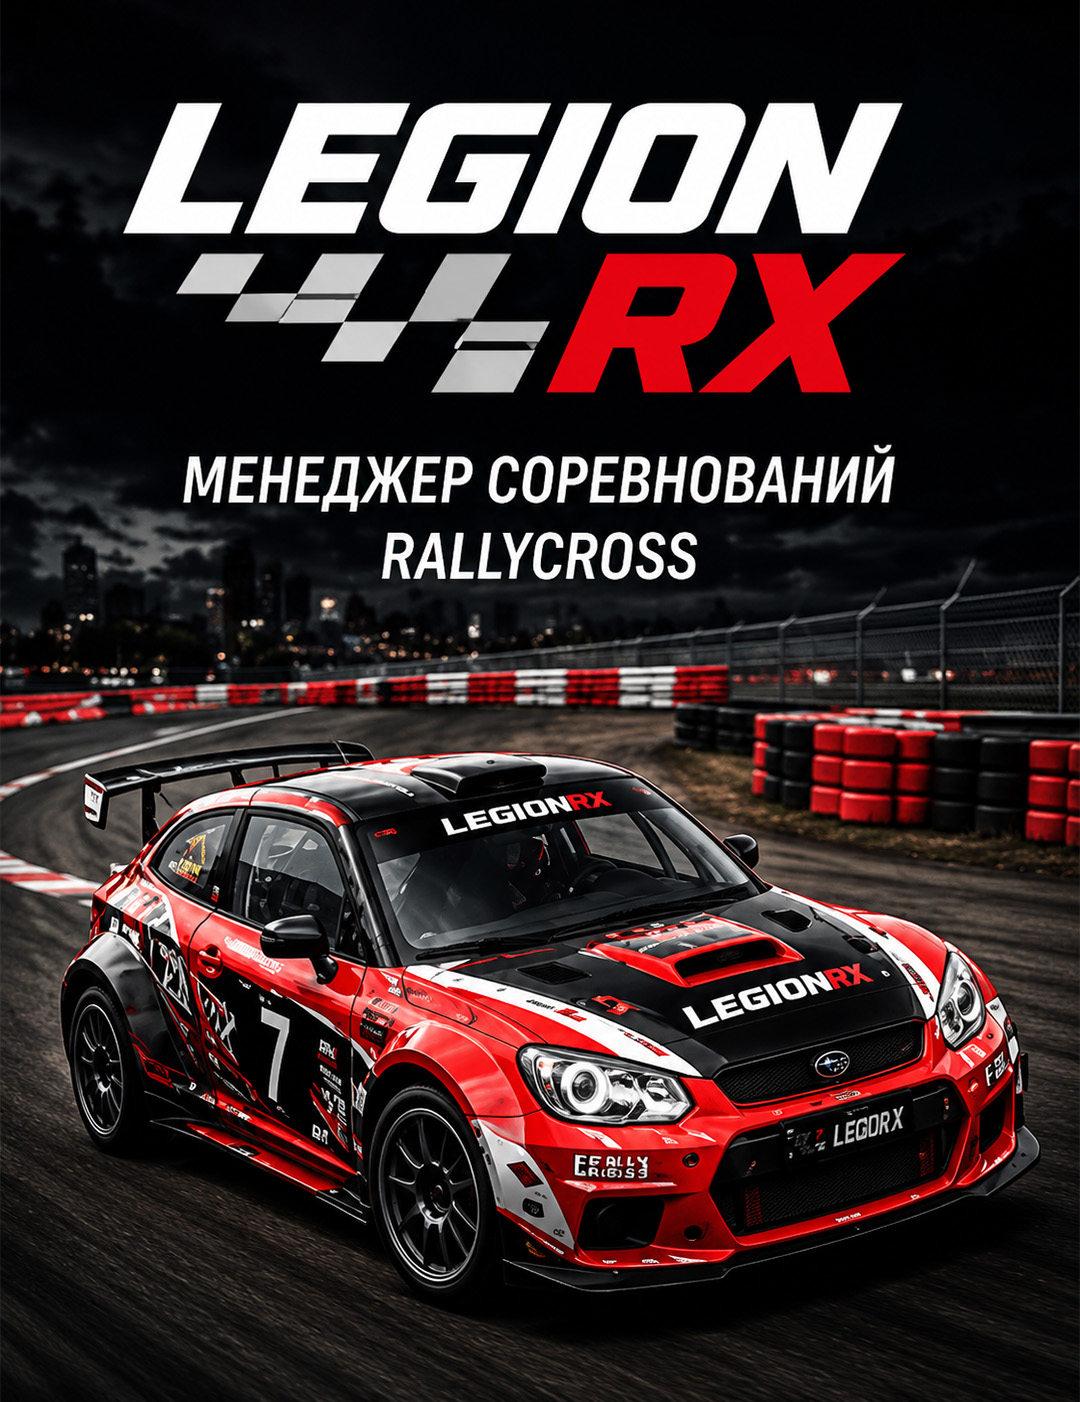
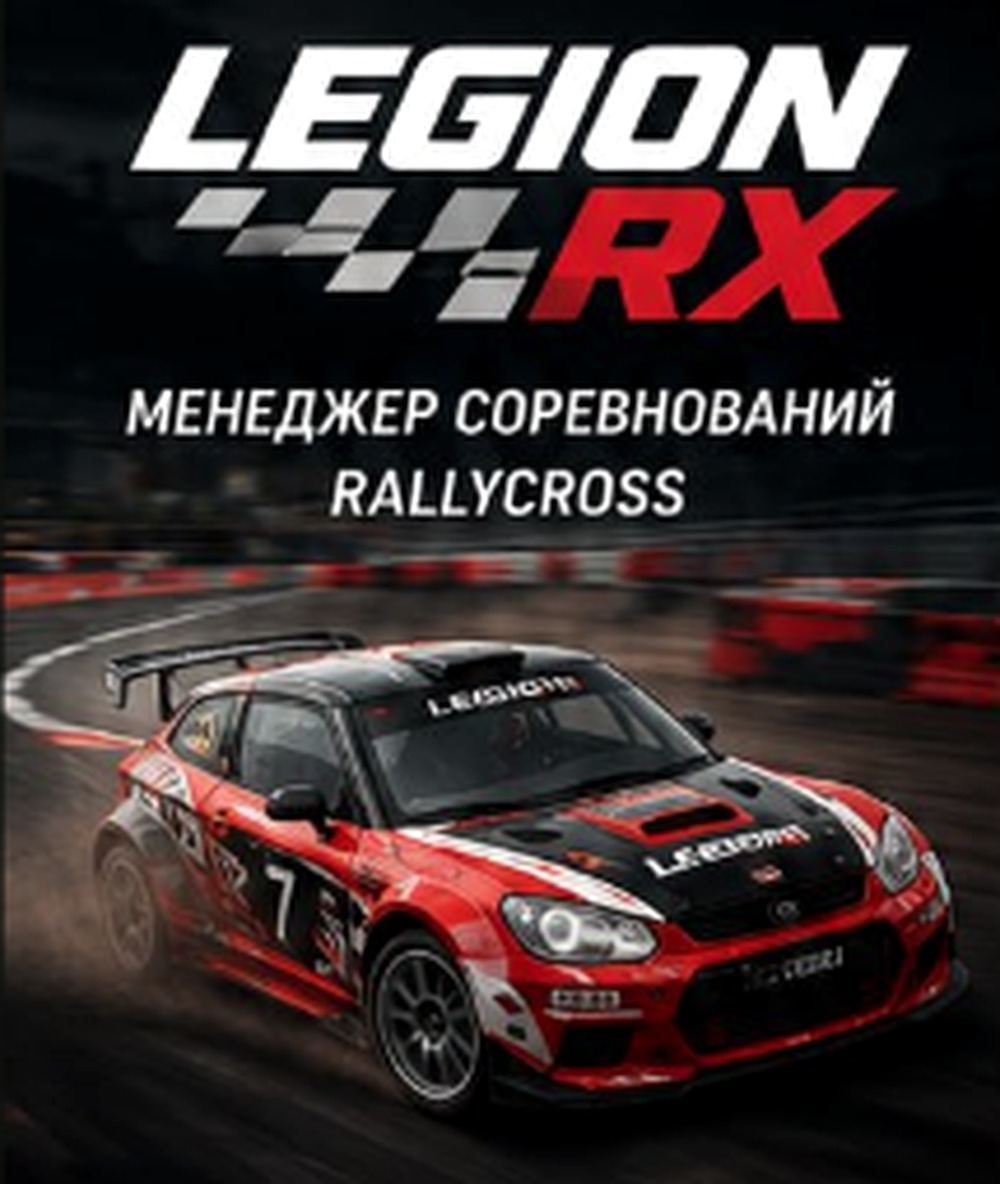
Add files via upload

diff --git a/app.js b/app.js
@@ -1,4 +1,4 @@
-/* Legion RX Championship Edition v3.3.5 Beta */
+/* Legion RX Championship Edition v3.3.11 Beta */
 
 const $ = id => document.getElementById(id);
 const eventNameInput = $("eventName");
@@ -18,6 +18,18 @@ const racePilotList = $("racePilotList");
 const pilotCounter = $("pilotCounter");
 const nextButton = $("nextStep");
 const PILOT_DB_KEY = "legionRxPilotDatabase";
+const LAST_LOCATION_KEY = "legionRxLastEventLocation";
+const INSTALL_HINT_KEY = "legionRxInstallHintShown_v3.3.11";
+
+function saveLastEventLocation(value = eventLocationInput?.value || "") {
+    const locationValue = String(value).trim();
+    if (locationValue) localStorage.setItem(LAST_LOCATION_KEY, locationValue);
+}
+
+function getLastEventLocation() {
+    return localStorage.getItem(LAST_LOCATION_KEY) || "";
+}
+
 let pendingPilotPhoto = "";
 let editingPilotId = "";
 let pendingEditPilotPhoto = "";
@@ -32,12 +44,15 @@ function toggleChampionshipFields(){
     $("championshipStageFields")?.classList.toggle("hidden",!on);
 }
 eventStatusInput.addEventListener("change", toggleChampionshipFields);
+eventLocationInput?.addEventListener("change", () => saveLastEventLocation());
+eventLocationInput?.addEventListener("blur", () => saveLastEventLocation());
 
 function readRaceForm() {
     RaceData.eventName = eventNameInput.value.trim() || "Соревнование Legion RX";
     RaceData.clubName = clubNameInput.value.trim() || "Legion RC Penza";
     RaceData.eventDate = eventDateInput.value;
     RaceData.eventLocation = eventLocationInput.value.trim();
+    saveLastEventLocation(RaceData.eventLocation);
     RaceData.eventStatus = eventStatusInput.value;
     RaceData.championshipId = eventStatusInput.value === "championship" ? raceChampionshipInput.value : "";
     RaceData.championshipStageNumber = eventStatusInput.value === "championship" ? Number(raceStageNumberInput.value || 1) : null;
@@ -763,12 +778,65 @@ $("printProtocol").addEventListener("click", printProtocol);
 $("saveProtocolImage").addEventListener("click", exportProtocolPng);
 $("completeRace")?.addEventListener("click", completeCurrentRace);
 $("openHome").addEventListener("click", () => navigateTo("home"));
-$("showInstallInfo").addEventListener("click", () => {
-    const box = $("installHelp");
-    box.innerHTML = "На iPhone откройте сайт в Safari → Поделиться → На экран «Домой». После первого запуска приложение работает офлайн.";
-    box.classList.remove("hidden");
-    window.scrollTo({ top: 0, behavior: "smooth" });
+let deferredInstallPrompt = null;
+window.addEventListener("beforeinstallprompt", event => {
+    event.preventDefault();
+    deferredInstallPrompt = event;
 });
+
+function detectInstallPlatform() {
+    const ua = navigator.userAgent || "";
+    const isStandalone = window.matchMedia?.("(display-mode: standalone)")?.matches || window.navigator.standalone === true;
+    const isIOS = /iPad|iPhone|iPod/.test(ua) || (navigator.platform === "MacIntel" && navigator.maxTouchPoints > 1);
+    const isAndroid = /Android/i.test(ua);
+    const isWindows = /Windows/i.test(ua);
+    const isMac = /Macintosh|Mac OS X/i.test(ua);
+    return { isStandalone, isIOS, isAndroid, isWindows, isMac };
+}
+
+function getInstallHelpHtml() {
+    const lang = window.LegionI18n?.getLanguage?.() || "ru";
+    const p = detectInstallPlatform();
+    if (p.isStandalone) {
+        return lang === "en"
+            ? `<div class="installHelpInner"><b>Legion RX is already installed</b><span>The app launches from its icon and can work offline after the first complete load.</span></div>`
+            : `<div class="installHelpInner"><b>Legion RX уже установлено</b><span>Приложение запускается с иконки и после первой полной загрузки может работать офлайн.</span></div>`;
+    }
+    if (p.isIOS) {
+        return lang === "en"
+            ? `<div class="installHelpInner"><b>Install on iPhone or iPad</b><ol><li>Open Legion RX in Safari.</li><li>Tap Share.</li><li>Select “Add to Home Screen”.</li><li>Tap “Add”.</li></ol><span>Open the installed app once while online, then test it in Airplane Mode.</span></div>`
+            : `<div class="installHelpInner"><b>Установка на iPhone или iPad</b><ol><li>Откройте Legion RX в Safari.</li><li>Нажмите «Поделиться».</li><li>Выберите «На экран Домой».</li><li>Нажмите «Добавить».</li></ol><span>Один раз откройте установленное приложение с интернетом, затем проверьте его в авиарежиме.</span></div>`;
+    }
+    if (p.isAndroid) {
+        const button = deferredInstallPrompt
+            ? `<button type="button" id="installPwaNow" class="primaryAction installNowButton">${lang === "en" ? "Install Legion RX" : "Установить Legion RX"}</button>`
+            : "";
+        return lang === "en"
+            ? `<div class="installHelpInner"><b>Install on Android</b><ol><li>Open Legion RX in Google Chrome.</li><li>Tap the browser menu ⋮.</li><li>Select “Install app” or “Add to Home screen”.</li><li>Confirm installation.</li></ol>${button}<span>If the page opened inside Telegram or VK, first choose “Open in browser”.</span></div>`
+            : `<div class="installHelpInner"><b>Установка на Android</b><ol><li>Откройте Legion RX в Google Chrome.</li><li>Нажмите меню браузера ⋮.</li><li>Выберите «Установить приложение» или «Добавить на главный экран».</li><li>Подтвердите установку.</li></ol>${button}<span>Если ссылка открылась внутри Telegram или VK, сначала выберите «Открыть в браузере».</span></div>`;
+    }
+    const desktopName = p.isWindows ? "Windows" : (p.isMac ? "macOS" : "computer");
+    return lang === "en"
+        ? `<div class="installHelpInner"><b>Install on ${desktopName}</b><ol><li>Open Legion RX in Chrome or Edge.</li><li>Click the install icon in the address bar or open the browser menu.</li><li>Select “Install Legion RX”.</li></ol><span>The installed app opens in a separate window and can work offline after the first complete load.</span></div>`
+        : `<div class="installHelpInner"><b>Установка на ${desktopName}</b><ol><li>Откройте Legion RX в Chrome или Edge.</li><li>Нажмите значок установки в адресной строке или откройте меню браузера.</li><li>Выберите «Установить Legion RX».</li></ol><span>Приложение будет открываться в отдельном окне и после первой полной загрузки сможет работать офлайн.</span></div>`;
+}
+
+function showInstallInstructions({ auto = false } = {}) {
+    const box = $("installHelp");
+    if (!box) return;
+    box.innerHTML = getInstallHelpHtml();
+    box.classList.remove("hidden");
+    box.querySelector("#installPwaNow")?.addEventListener("click", async () => {
+        if (!deferredInstallPrompt) return;
+        deferredInstallPrompt.prompt();
+        await deferredInstallPrompt.userChoice;
+        deferredInstallPrompt = null;
+        box.innerHTML = getInstallHelpHtml();
+    });
+    if (!auto) window.scrollTo({ top: 0, behavior: "smooth" });
+}
+
+$("showInstallInfo").addEventListener("click", () => showInstallInstructions());
 bindRouteButtons();
 $("languageSelect").value = window.LegionI18n?.getLanguage?.() || "ru";
 $("languageSelect").addEventListener("change", e => window.LegionI18n?.setLanguage?.(e.target.value));
@@ -786,7 +854,9 @@ if (loadFromBrowser()) {
     qualifyingSelect.value = String(RaceData.qualifyingCount || 4);
 } else {
     eventDateInput.value = new Date().toISOString().slice(0,10);
+    eventLocationInput.value = getLastEventLocation();
 }
+if (eventLocationInput.value.trim()) saveLastEventLocation(eventLocationInput.value);
 
 upsertLegacyRacePilotsIntoDatabase();
 drawPilots();
@@ -795,6 +865,13 @@ updatePhotoPreview();
 restoreRaceView();
 updateHomeSummary();
 navigateTo("home");
+setTimeout(() => {
+    const platform = detectInstallPlatform();
+    if (!platform.isStandalone && !localStorage.getItem(INSTALL_HINT_KEY)) {
+        showInstallInstructions({ auto: true });
+        localStorage.setItem(INSTALL_HINT_KEY, "1");
+    }
+}, 700);
 
 
 const HELP_SECTIONS_RU={
@@ -813,7 +890,8 @@ const HELP_SECTIONS_RU={
 <h3>6. Равенство очков в Финале A</h3><p>При равной сумме применяются последовательно:</p><div class="rxGridOrder"><div><b>1</b><span>Большее количество побед в A1–A3.</span></div><div><b>2</b><span>Большее количество вторых мест.</span></div><div><b>3</b><span>Лучший результат в A3.</span></div><div><b>4</b><span>Более высокое место в квалификации.</span></div></div>
 <div class="rxProgression" role="img" aria-label="Квалификация: первые четыре напрямую в Финал A, остальные через LCQ; затем три заезда A1 A2 A3"><div class="rxProgressFinal"><span>ГЛАВНЫЙ ФИНАЛ</span><b>A1 + A2 + A3</b><em>зачёт двух лучших результатов</em></div><div class="rxProgressLinks"><div class="rxProgressLink"><span class="rxAdvanceCount">↑ TOP 4</span><i></i></div><div class="rxProgressLink"><span class="rxAdvanceCount">↑ 2 МЕСТА</span><i></i></div></div><div class="rxProgressSemis"><div class="rxProgressBlock"><span>КВАЛИФИКАЦИЯ</span><b>TOP 4</b><em>прямой проход</em></div><div class="rxProgressBlock"><span>ОТБОР</span><b>LCQ</b><em>честный проход по финишу</em></div></div></div>
 <h3>7. Очки этапа</h3><p>По итоговому протоколу первые 10 пилотов получают очки: <b>25–18–15–12–10–8–6–4–2–1</b>.</p><div class="pointsGuide"><span><b>1</b>25</span><span><b>2</b>18</span><span><b>3</b>15</span><span><b>4</b>12</span><span><b>5</b>10</span><span><b>6</b>8</span><span><b>7</b>6</span><span><b>8</b>4</span><span><b>9</b>2</span><span><b>10</b>1</span></div></div>`,
- terms:`<div class="guideContent"><h2>Обозначения</h2><dl class="termsList"><dt>LCQ</dt><dd>Last Chance Qualifier — заезд последнего шанса для прохода в Финал A.</dd><dt>DNS</dt><dd>Did Not Start — пилот не стартовал.</dd><dt>DNF</dt><dd>Did Not Finish — пилот стартовал, но не финишировал.</dd><dt>DSQ</dt><dd>Disqualified — дисквалификация.</dd><dt>Best 3</dt><dd>Три лучших результата пилота в квалификационных сериях.</dd></dl></div>`
+ terms:`<div class="guideContent"><h2>Обозначения</h2><dl class="termsList"><dt>LCQ</dt><dd>Last Chance Qualifier — заезд последнего шанса для прохода в Финал A.</dd><dt>DNS</dt><dd>Did Not Start — пилот не стартовал.</dd><dt>DNF</dt><dd>Did Not Finish — пилот стартовал, но не финишировал.</dd><dt>DSQ</dt><dd>Disqualified — дисквалификация.</dd><dt>Best 3</dt><dd>Три лучших результата пилота в квалификационных сериях.</dd></dl></div>`,
+ install:`<div class="guideContent"><h2>Установка приложения</h2><div id="guideInstallDetected" class="guideInstallDetected"></div><h3>iPhone и iPad</h3><ol><li>Откройте Legion RX в Safari.</li><li>Нажмите «Поделиться».</li><li>Выберите «На экран Домой».</li><li>Нажмите «Добавить».</li></ol><h3>Android</h3><ol><li>Откройте Legion RX в Google Chrome.</li><li>Нажмите меню ⋮.</li><li>Выберите «Установить приложение» или «Добавить на главный экран».</li><li>Подтвердите установку.</li></ol><h3>Компьютер</h3><p>В Chrome или Edge нажмите значок установки в адресной строке и выберите «Установить Legion RX».</p><p><b>Проверка офлайн:</b> после первой полной загрузки закройте приложение, включите авиарежим и снова откройте его с иконки.</p></div>`
 };
 const HELP_SECTIONS_EN={
  manual:`<div class="guideContent"><h2>User guide</h2><h3>1. Creating a race</h3><p>Select the race type and enter its name, date and location.</p><h3>2. Drivers</h3><p>Add drivers. Registration order does not determine sporting results: starting positions are set by qualifying.</p><h3>3. Qualifying</h3><p>Create the rounds, enter the results and save every heat. The driver’s three best results — Best 3 — count toward the qualifying standings.</p><h3>4. Finals stage</h3><p>Tap “Generate finals”. The app automatically selects the format based on the number of drivers, creates the LCQ structure and the three Final A heats.</p><h3>5. Entering results</h3><p>Save the heats in order. After A3, the app automatically calculates the best two results out of three and generates the final report.</p><h3>6. Export</h3><p>“PDF / Print” creates a printable document, while “Download PNG” creates an image of the results.</p></div>`,
@@ -829,9 +907,25 @@ const HELP_SECTIONS_EN={
 <h3>6. Ties in Final A</h3><p>If totals are equal, the following criteria are applied in order:</p><div class="rxGridOrder"><div><b>1</b><span>More wins in A1–A3.</span></div><div><b>2</b><span>More second-place finishes.</span></div><div><b>3</b><span>Better result in A3.</span></div><div><b>4</b><span>Higher qualifying position.</span></div></div>
 <div class="rxProgression" role="img" aria-label="Qualifying: the top four advance directly to Final A, the others go through the LCQ, followed by A1, A2 and A3"><div class="rxProgressFinal"><span>MAIN FINAL</span><b>A1 + A2 + A3</b><em>best two results count</em></div><div class="rxProgressLinks"><div class="rxProgressLink"><span class="rxAdvanceCount">↑ TOP 4</span><i></i></div><div class="rxProgressLink"><span class="rxAdvanceCount">↑ 2 POSITIONS</span><i></i></div></div><div class="rxProgressSemis"><div class="rxProgressBlock"><span>QUALIFYING</span><b>TOP 4</b><em>direct advancement</em></div><div class="rxProgressBlock"><span>QUALIFIER</span><b>LCQ</b><em>advancement by finishing order</em></div></div></div>
 <h3>7. Event points</h3><p>The top 10 drivers in the final report score: <b>25–18–15–12–10–8–6–4–2–1</b>.</p><div class="pointsGuide"><span><b>1</b>25</span><span><b>2</b>18</span><span><b>3</b>15</span><span><b>4</b>12</span><span><b>5</b>10</span><span><b>6</b>8</span><span><b>7</b>6</span><span><b>8</b>4</span><span><b>9</b>2</span><span><b>10</b>1</span></div></div>`,
- terms:`<div class="guideContent"><h2>Terms</h2><dl class="termsList"><dt>LCQ</dt><dd>Last Chance Qualifier — a last-chance heat for advancement to Final A.</dd><dt>DNS</dt><dd>Did Not Start — the driver did not start.</dd><dt>DNF</dt><dd>Did Not Finish — the driver started but did not finish.</dd><dt>DSQ</dt><dd>Disqualified — the driver was disqualified.</dd><dt>Best 3</dt><dd>The driver’s three best results from the qualifying rounds.</dd></dl></div>`
+ terms:`<div class="guideContent"><h2>Terms</h2><dl class="termsList"><dt>LCQ</dt><dd>Last Chance Qualifier — a last-chance heat for advancement to Final A.</dd><dt>DNS</dt><dd>Did Not Start — the driver did not start.</dd><dt>DNF</dt><dd>Did Not Finish — the driver started but did not finish.</dd><dt>DSQ</dt><dd>Disqualified — the driver was disqualified.</dd><dt>Best 3</dt><dd>The driver’s three best results from the qualifying rounds.</dd></dl></div>`,
+ install:`<div class="guideContent"><h2>Installing the application</h2><div id="guideInstallDetected" class="guideInstallDetected"></div><h3>iPhone and iPad</h3><ol><li>Open Legion RX in Safari.</li><li>Tap Share.</li><li>Select “Add to Home Screen”.</li><li>Tap “Add”.</li></ol><h3>Android</h3><ol><li>Open Legion RX in Google Chrome.</li><li>Tap the ⋮ menu.</li><li>Select “Install app” or “Add to Home screen”.</li><li>Confirm installation.</li></ol><h3>Computer</h3><p>In Chrome or Edge, click the install icon in the address bar and choose “Install Legion RX”.</p><p><b>Offline test:</b> after the first complete load, close the app, enable Airplane Mode and open it again from its icon.</p></div>`
 };
 function currentHelpSections(){return window.LegionI18n?.getLanguage?.()==='en'?HELP_SECTIONS_EN:HELP_SECTIONS_RU}
-function renderHelp(key){const sections=currentHelpSections();document.querySelectorAll('.helpTab').forEach(b=>b.classList.toggle('active',b.dataset.help===key));$('helpContent').innerHTML=sections[key]||sections.manual}
+function renderHelp(key){
+    const sections=currentHelpSections();
+    document.querySelectorAll('.helpTab').forEach(b=>b.classList.toggle('active',b.dataset.help===key));
+    $('helpContent').innerHTML=sections[key]||sections.manual;
+    if(key==='install'){
+        const target=$('guideInstallDetected');
+        if(target) target.innerHTML=getInstallHelpHtml();
+        target?.querySelector('#installPwaNow')?.addEventListener('click',async()=>{
+            if(!deferredInstallPrompt)return;
+            deferredInstallPrompt.prompt();
+            await deferredInstallPrompt.userChoice;
+            deferredInstallPrompt=null;
+            target.innerHTML=getInstallHelpHtml();
+        });
+    }
+}
 document.querySelectorAll('.helpTab').forEach(b=>b.addEventListener('click',()=>renderHelp(b.dataset.help)));
 initChampionships(); toggleChampionshipFields();

diff --git a/index.html b/index.html
@@ -10,7 +10,7 @@
     <link rel="manifest" href="manifest.webmanifest">
     <link rel="apple-touch-icon" href="icons/apple-touch-icon.png">
     <title>Legion RX Championship Edition v3.3.10 Beta</title>
-    <link rel="stylesheet" href="style.css?v=3.3.10">
+    <link rel="stylesheet" href="style.css?v=3.3.11">
 </head>
 <body>
 <svg class="rxIconSprite" aria-hidden="true" focusable="false" width="0" height="0" style="position:absolute;overflow:hidden">
@@ -37,7 +37,7 @@
             <div class="brandMark"><span>LEGION</span><b>RX</b></div>
             <small>RallyCross Manager</small>
         </div>
-        <div class="versionBadge">v3.3.10 BETA</div>
+        <div class="versionBadge">v3.3.11 BETA</div>
     </header>
 
     <div id="installHelp" class="installHelp hidden"></div>
@@ -286,7 +286,7 @@
 
         <section id="helpView" class="appScreen card hidden">
           <div class="screenHero compactHero"><div><span>СПРАВКА</span><h1>Руководства и правила</h1></div><button class="ghostAction" data-route="home">← Меню</button></div>
-          <div class="helpTabs"><button class="helpTab active" data-help="manual">Руководство</button><button class="helpTab" data-help="raceguide">Правила гонки</button><button class="helpTab" data-help="terms">Обозначения</button></div>
+          <div class="helpTabs"><button class="helpTab active" data-help="manual">Руководство</button><button class="helpTab" data-help="raceguide">Правила гонки</button><button class="helpTab" data-help="terms">Обозначения</button><button class="helpTab" data-help="install">Установка</button></div>
           <div id="helpContent"></div>
         </section>
 
@@ -349,14 +349,14 @@
 
 <footer>Legion RC Penza · RallyCross Manager</footer>
 
-<script src="i18n.js?v=3.3.9"></script>
-<script src="data.js?v=3.3.9"></script>
-<script src="score.js?v=3.3.9"></script>
-<script src="qualifying.js?v=3.3.9"></script>
-<script src="finals.js?v=3.3.9"></script>
-<script src="championship.js?v=3.3.9"></script>
-<script src="theme.js?v=3.3.9"></script>
-<script src="app.js?v=3.3.9"></script>
-<script src="pwa.js?v=3.3.9"></script>
+<script src="i18n.js?v=3.3.11"></script>
+<script src="data.js?v=3.3.11"></script>
+<script src="score.js?v=3.3.11"></script>
+<script src="qualifying.js?v=3.3.11"></script>
+<script src="finals.js?v=3.3.11"></script>
+<script src="championship.js?v=3.3.11"></script>
+<script src="theme.js?v=3.3.11"></script>
+<script src="app.js?v=3.3.11"></script>
+<script src="pwa.js?v=3.3.11"></script>
 </body>
 </html>

diff --git a/sw.js b/sw.js
@@ -1,17 +1,17 @@
-const CACHE_NAME = 'legion-rx-v3.3.10-beta';
+const CACHE_NAME = 'legion-rx-v3.3.11-beta';
 const APP_FILES = [
   './',
   './index.html',
-  './style.css?v=3.3.10',
-  './i18n.js?v=3.3.10',
-  './data.js?v=3.3.10',
-  './score.js?v=3.3.10',
-  './qualifying.js?v=3.3.10',
-  './finals.js?v=3.3.10',
-  './championship.js?v=3.3.10',
-  './theme.js?v=3.3.10',
-  './app.js?v=3.3.10',
-  './pwa.js?v=3.3.10',
+  './style.css?v=3.3.11',
+  './i18n.js?v=3.3.11',
+  './data.js?v=3.3.11',
+  './score.js?v=3.3.11',
+  './qualifying.js?v=3.3.11',
+  './finals.js?v=3.3.11',
+  './championship.js?v=3.3.11',
+  './theme.js?v=3.3.11',
+  './app.js?v=3.3.11',
+  './pwa.js?v=3.3.11',
   './manifest.webmanifest',
   './icons/icon-192.png',
   './icons/icon-512.png',

diff --git a/style.css b/style.css
@@ -1157,3 +1157,7 @@ body.cropEditorOpen{overflow:hidden;touch-action:none}
 [data-theme="rx-light"] button.primaryAction{
   color:#fff!important;
 }
+
+
+/* v3.3.11 — contextual PWA installation help */
+.installHelpInner{display:flex;flex-direction:column;gap:8px}.installHelpInner b{color:#fff;font-size:16px}.installHelpInner span{color:inherit}.installHelpInner ol{margin:2px 0 4px 20px;padding:0}.installHelpInner li{margin:4px 0}.installNowButton{align-self:flex-start;margin-top:4px}.guideInstallDetected{margin:0 0 18px;padding:14px 16px;border:1px solid rgba(239,43,45,.4);border-radius:12px;background:#15191f;color:#d4d7dc}.guideInstallDetected .installHelpInner b{color:#fff}[data-theme="rx-light"] .guideInstallDetected{background:#f4f6f8;color:#303843;border-color:#cfd6df}[data-theme="rx-light"] .guideInstallDetected .installHelpInner b{color:#111820}

diff --git a/i18n.js b/i18n.js
@@ -13,7 +13,7 @@ const en = {
   'Общий рейтинг':'Overall ranking','Турнирная таблица Финала A':'Final A standings','Итоговый протокол':'Final report','Завершить соревнование':'Finish race','🏁 Завершить соревнование':'🏁 Finish race','Скачать PNG':'Download PNG','PDF / Печать':'PDF / Print',
   'База пилотов':'Driver database','ПОСТОЯННЫЕ ПРОФИЛИ':'PERMANENT PROFILES','Постоянные профили':'Permanent profiles','Новый пилот':'New driver','＋ Новый пилот':'＋ New driver','В гонку':'Add to race','Редактировать':'Edit','Удалить':'Delete','Добавить в гонку':'Add to race','Поиск пилота':'Search driver','Профиль пилота':'Driver profile','ПРОФИЛЬ ПИЛОТА':'DRIVER PROFILE','БАЗА ПИЛОТОВ':'DRIVER DATABASE','Фамилия Имя':'Full name','Клуб':'Club','Необязательно':'Optional','Клуб (необязательно)':'Club (optional)','Сохранить изменения':'Save changes','Удаление здесь удаляет профиль из базы, но не меняет архивные результаты.':'Deleting here removes the profile from the database but does not change archived results.',
   'Язык':'Language','Выберите язык интерфейса приложения.':'Choose the application interface language.','Русский':'Russian','Темы':'Themes','Дополнительные темы оформления появятся позже.':'Additional themes will be added later.','Скоро':'Coming soon','СИСТЕМА':'SYSTEM',
-  'Экспорт гонки':'Export race','Сохранить полную резервную копию в JSON.':'Save a full JSON backup.','Скачать':'Download','Отменить текущую гонку':'Cancel current race','Удалить незавершённую гонку. Архив не пострадает.':'Delete the unfinished race. The archive will not be affected.','Отменить':'Cancel','PWA-приложение':'PWA application','Устанавливается на экран iPhone и работает офлайн.':'Can be installed on the iPhone Home Screen and works offline.','Инструкция':'Instructions','Руководства и правила':'Guides and rules','Работа с приложением, формат гонки и обозначения.':'Application guide, race format and terminology.','Открыть':'Open','Меню':'Menu','← Меню':'← Menu',
+  'Экспорт гонки':'Export race','Сохранить полную резервную копию в JSON.':'Save a full JSON backup.','Скачать':'Download','Отменить текущую гонку':'Cancel current race','Удалить незавершённую гонку. Архив не пострадает.':'Delete the unfinished race. The archive will not be affected.','Отменить':'Cancel','PWA-приложение':'PWA application','Устанавливается на экран телефона и работает офлайн.':'Installs on your device and works offline.','Инструкция':'Instructions','Установка':'Installation','Руководства и правила':'Guides and rules','Работа с приложением, формат гонки и обозначения.':'Application guide, race format and terminology.','Открыть':'Open','Меню':'Menu','← Меню':'← Menu',
   'Мои чемпионаты':'My championships','СЕЗОНЫ':'SEASONS','НОВЫЙ СЕЗОН':'NEW SEASON','Создать чемпионат':'Create championship','Название':'Name','Сезон':'Season','План этапов':'Planned rounds','Сохранённые этапы':'Saved rounds','СОХРАНЁННЫЕ ЭТАПЫ':'SAVED ROUNDS','Все':'All','Официальные':'Official','Клубные':'Club','Тренировочные':'Practice','Тестовые':'Test',
   'Руководство':'Guide','Правила гонки':'Race rules','Обозначения':'Terms','СПРАВКА':'HELP','ИСТОРИЯ':'HISTORY','Добавлен':'Added','Добавить':'Add','Пилоты не найдены.':'No drivers found.','База пилотов пока пуста.':'The driver database is empty.','В гонке пока нет пилотов.':'No drivers in this race yet.','Удалённый пилот':'Deleted driver',
   'Результат':'Result','Пилот':'Driver','Сохранить заезд':'Save heat','Введите порядок финиша':'Enter finishing order','Исправить результат':'Edit result','Стартовая решётка':'Starting grid','Направление движения':'Direction of travel','НАПРАВЛЕНИЕ ДВИЖЕНИЯ':'DIRECTION OF TRAVEL','НАПРАВЛЕНИЕ ДВИЖЕНИЯ ↑':'DIRECTION OF TRAVEL ↑','Место':'Position','Источник':'Source','Очки этапа':'Event points','Зачёт Финала A':'Final A classification','Лучшие 2':'Best 2','Порядок схода':'Retirement order',